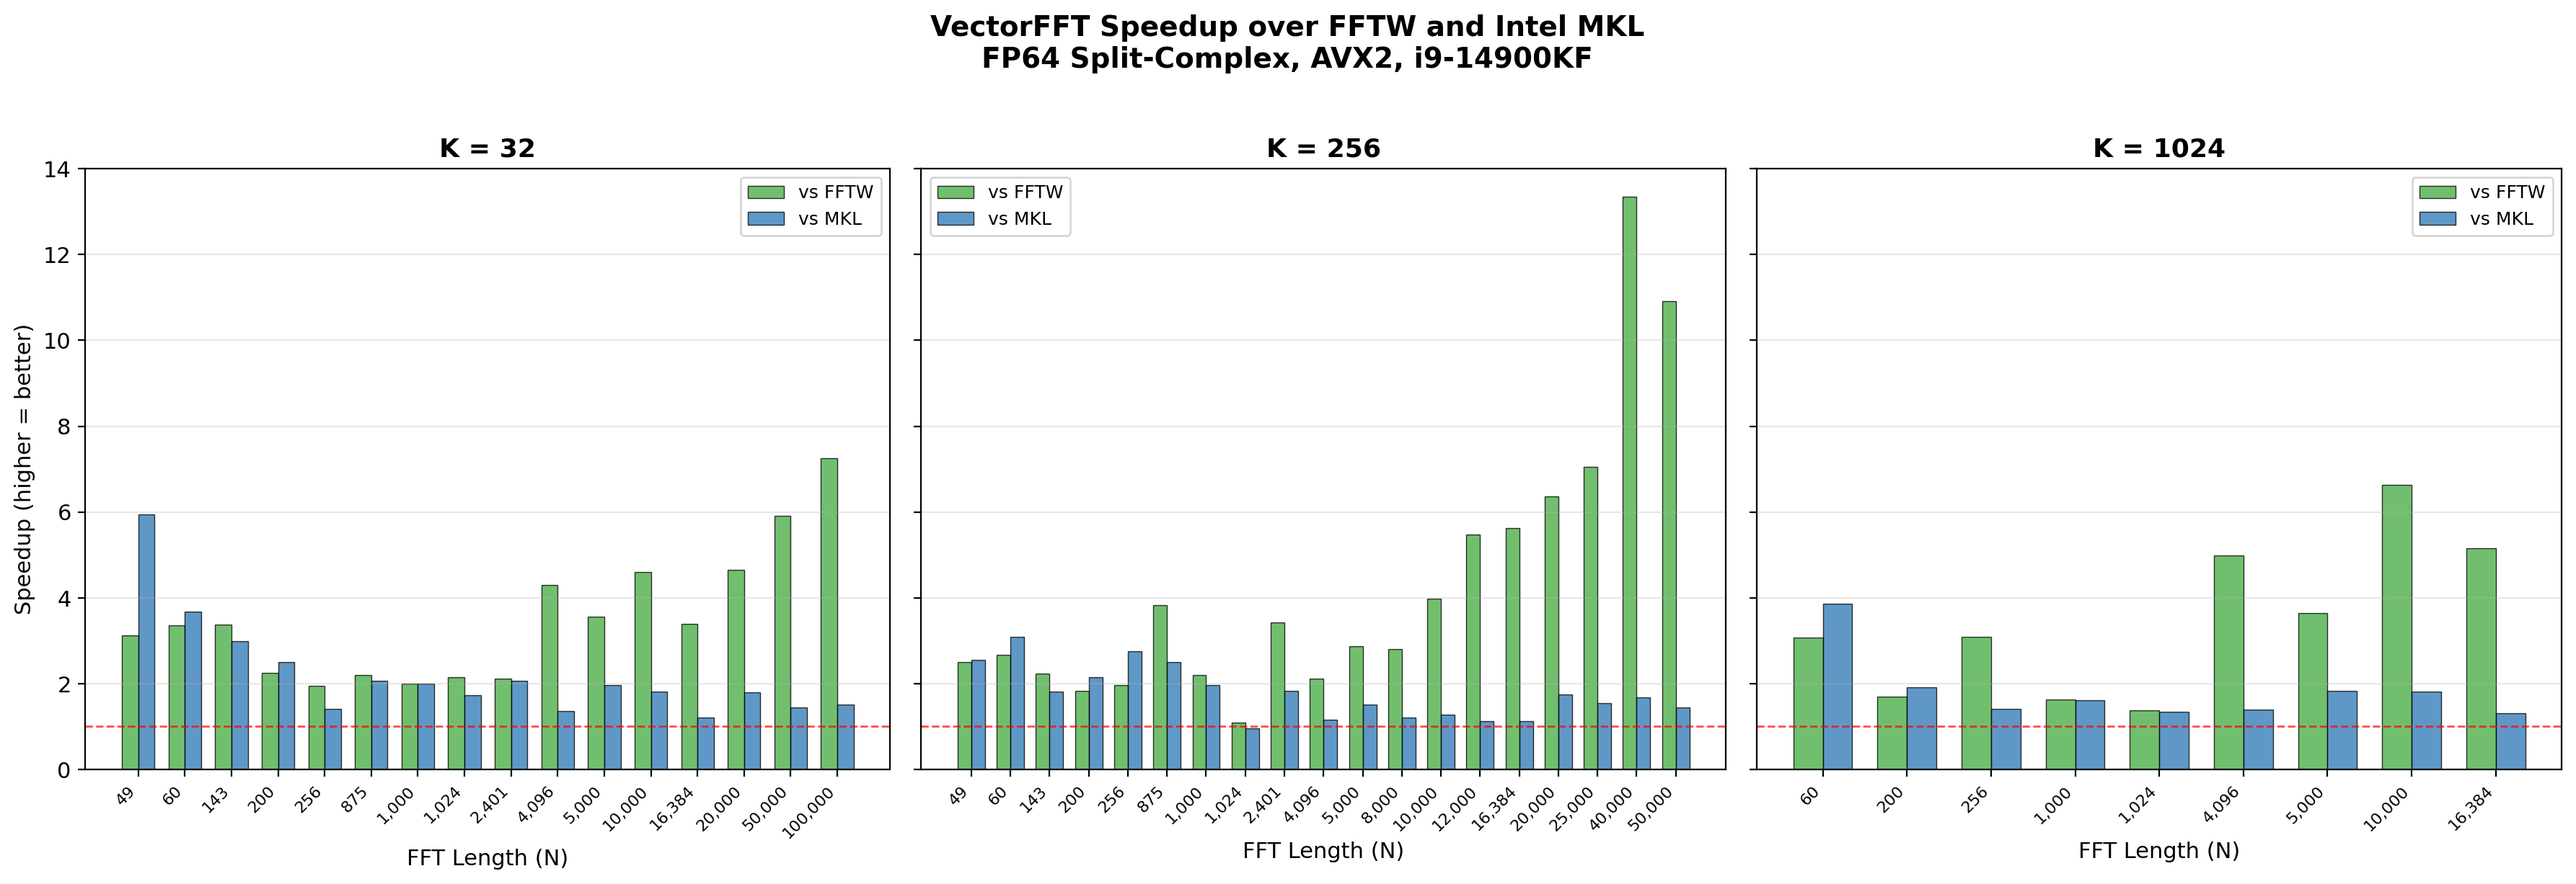
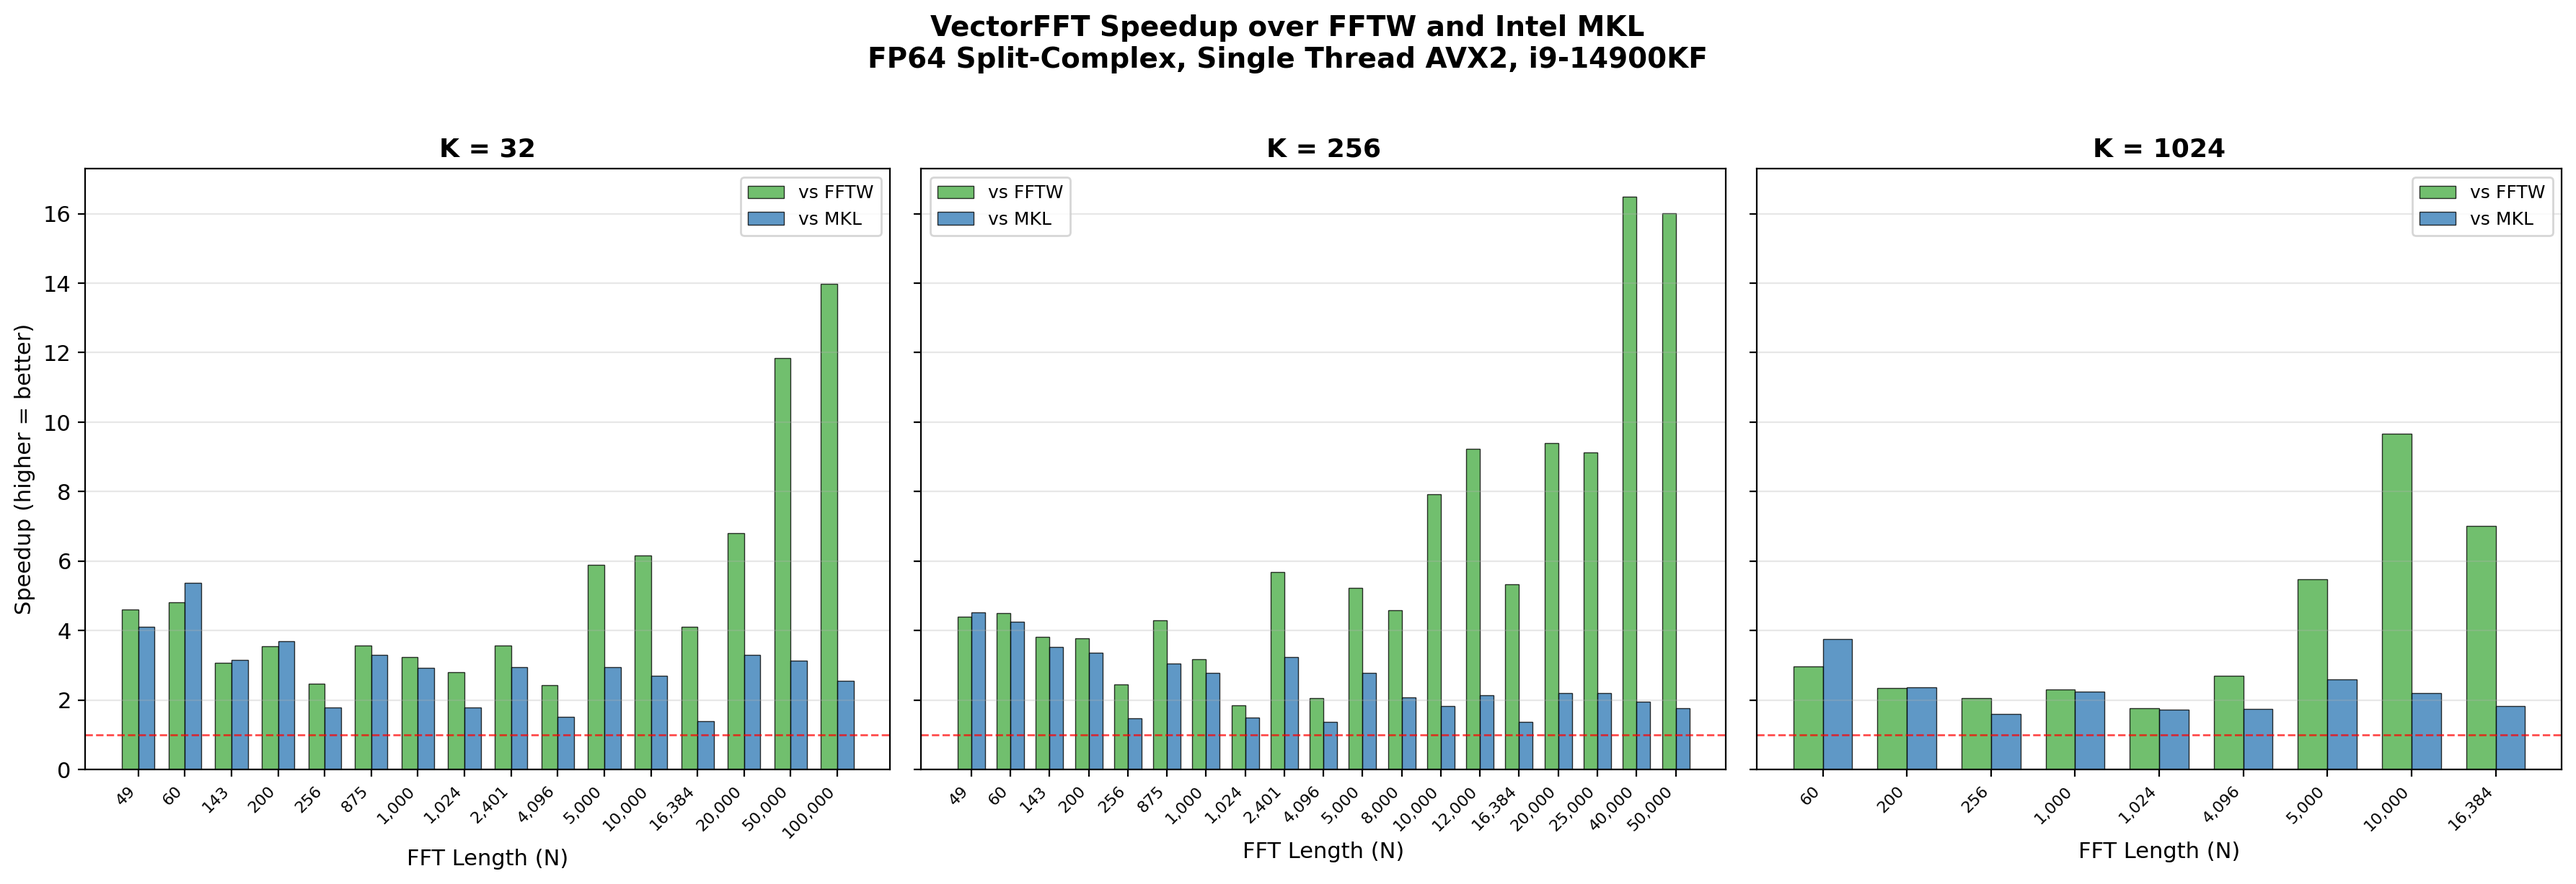
Update benchmark data and README (scalar twiddles)
Refresh benchmarks and docs for the scalar-twiddle optimized build: update performance table and summary text in README (including Rader mean and FFTW speedup claim), replace the Log3 twiddle note with a new Scalar twiddle optimization description, and bump the large-N FFTW speedup example. Replace the notebook's noisy CSV parsing with an embedded bench_data table (execution outputs cleared) and refresh three benchmark plots (vfft_speedup_bars.png, vfft_throughput.png, vfft_vs_mkl.png) to reflect the new measurements.

diff --git a/README.md b/README.md
@@ -27,15 +27,17 @@
 
 | N | K | vs FFTW | vs MKL |
 |---|---|---------|--------|
-| 60 | 256 | 3.20x | **3.90x** |
-| 49 | 32 | 4.71x | **5.94x** |
-| 200 | 256 | 3.34x | **3.50x** |
-| 1000 | 32 | 2.55x | **2.57x** |
-| 10000 | 256 | 3.97x | **1.28x** |
-| 50000 | 256 | 10.91x | **1.45x** |
-| 100000 | 32 | 7.25x | **1.51x** |
-| 16384 | 1024 | 5.15x | **1.30x** |
-| 4096 | 1024 | 4.99x | **1.39x** |
+| 60 | 32 | 4.81x | **5.36x** |
+| 49 | 32 | 4.60x | **4.11x** |
+| 200 | 256 | 3.78x | **3.36x** |
+| 1000 | 256 | 3.17x | **2.78x** |
+| 5000 | 32 | 5.88x | **2.95x** |
+| 10000 | 256 | 7.92x | **1.82x** |
+| 10000 | 1024 | 9.67x | **2.19x** |
+| 50000 | 256 | 16.02x | **1.77x** |
+| 100000 | 32 | 13.98x | **2.55x** |
+| 16384 | 1024 | 7.00x | **1.82x** |
+| 4096 | 1024 | 2.69x | **1.75x** |
 
 ### Prime-N Performance (Rader & Bluestein)
 
@@ -50,7 +52,7 @@ Smooth primes (N-1 is 19-smooth) use **Rader's algorithm** with hand-optimized c
 | 2053 | 256 | Rader | 2.52x | **2.24x** |
 | 263 | 32 | Bluestein | 1.04x | **1.10x** |
 
-**Rader primes: 1.39x - 5.41x vs MKL (mean 2.46x)**. Bluestein handles the hard cases where no efficient decomposition exists.
+**Rader primes: 1.39x - 5.41x vs MKL (mean 2.50x)**. Bluestein handles the hard cases where no efficient decomposition exists.
 
 ---
 
@@ -74,7 +76,7 @@ VectorFFT uses a **permutation-free stride-based Cooley-Tukey** architecture:
 - **Zero permutation passes, zero scratch buffers** -- fully in-place, single buffer
 - **18 hand-optimized radixes** (2, 3, 4, 5, 6, 7, 8, 10, 11, 12, 13, 16, 17, 19, 20, 25, 32, 64)
 - **Method C fused twiddles** -- bakes common factor into per-leg twiddle table at plan time
-- **Log3 twiddle derivation** -- derives W^2..W^(R-1) from W^1 via cmul chain when table overflows L1
+- **Scalar twiddle optimization** -- stores (R-1) unique scalars per group instead of (R-1)*K replicated rows; broadcasts to SIMD width inside codelets, eliminating L2/L3 twiddle pressure
 - **Split-complex layout** -- separate `re[]` / `im[]` arrays, SIMD-friendly
 
 All codelets are generated by Python scripts with ISA-specific scheduling (register allocation, spill management, FMA pipelining). Prime-radix butterflies (R=11, 13, 17, 19) are derived from FFTW's genfft algebraic output, then re-scheduled using Sethi-Ullman optimal register allocation with explicit spill management to fit AVX2's 16 YMM registers.
@@ -171,7 +173,7 @@ VectorFFT eliminates this entirely:
 2. **Backward (DIF):** stages process in reverse order, naturally undoing the permutation
 3. **Roundtrip (fwd + bwd):** produces natural-order output with zero permutation overhead
 
-This saves one full data pass per transform. At large N, that's the difference between 1x and 13x over FFTW.
+This saves one full data pass per transform. At large N, that's the difference between 1x and 16x over FFTW.
 
 ---
 
